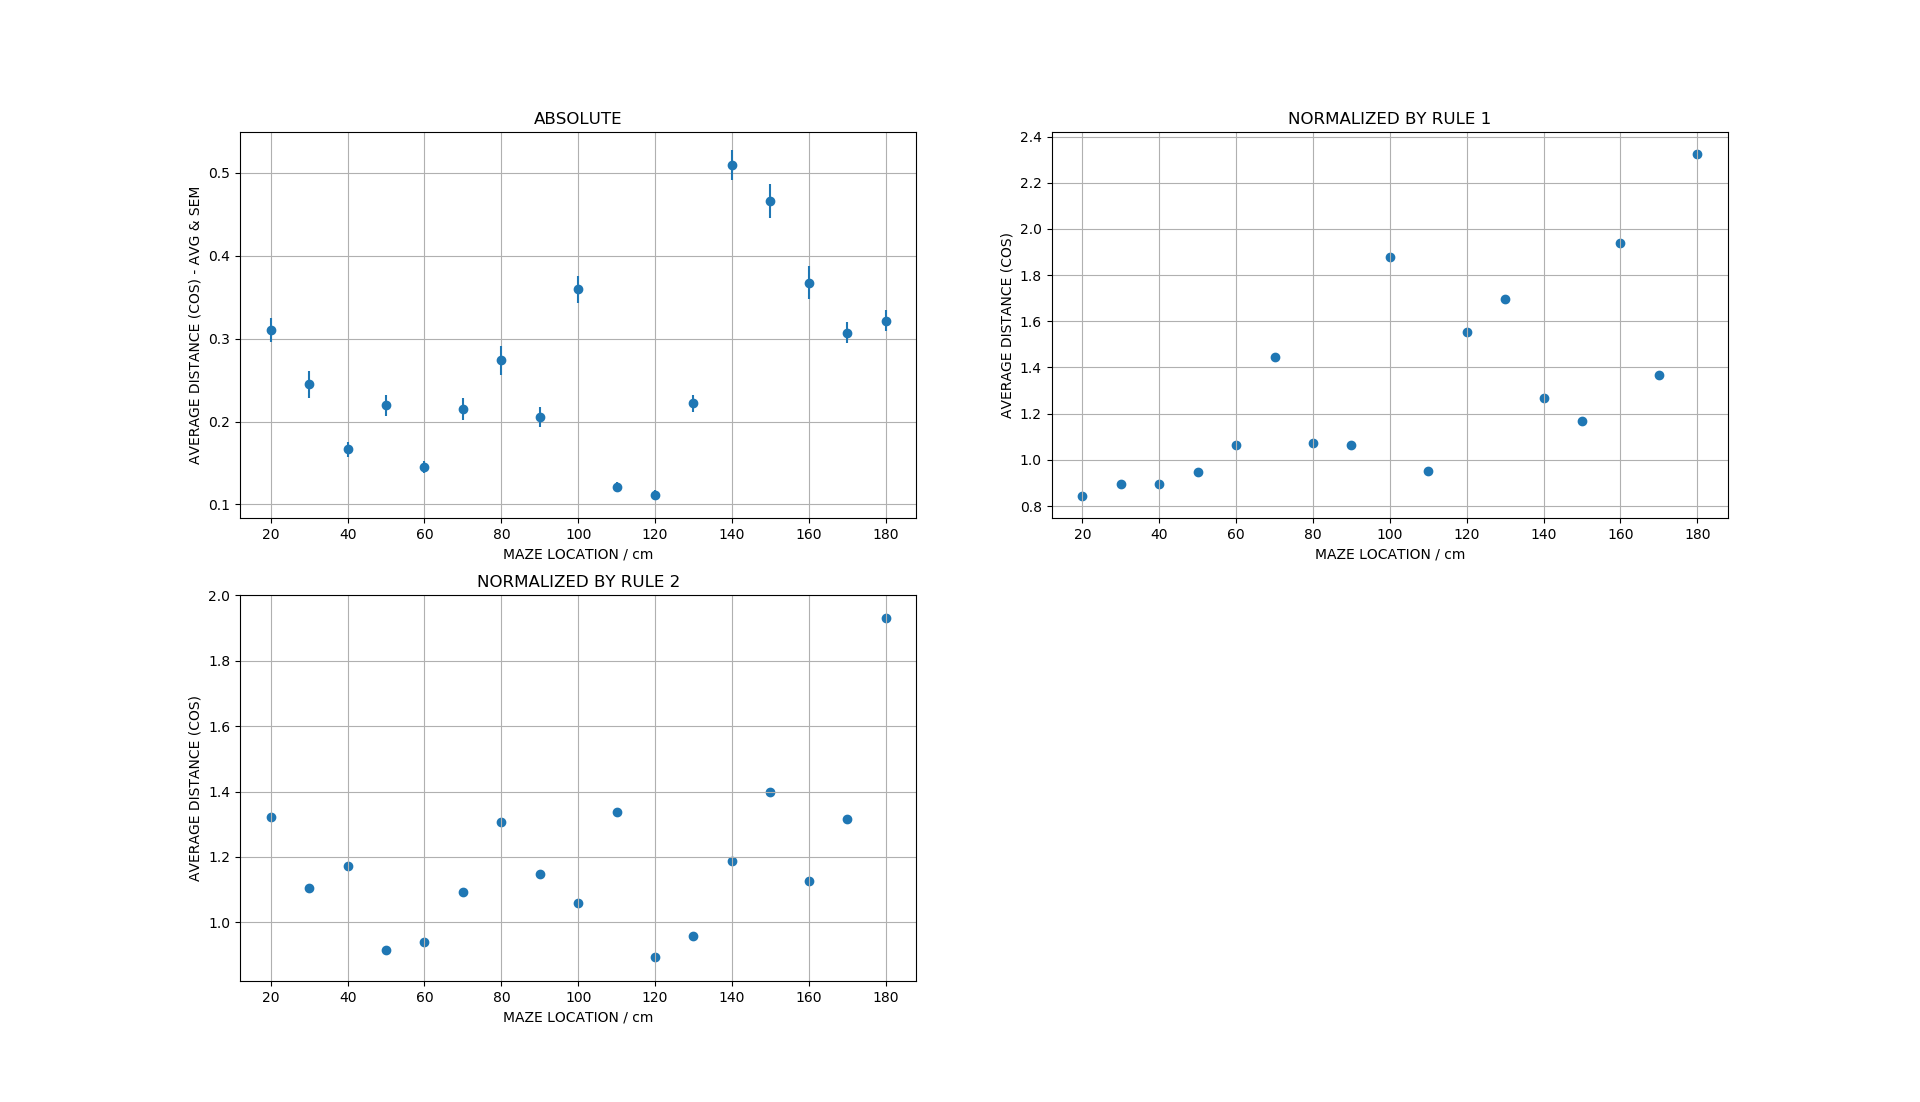
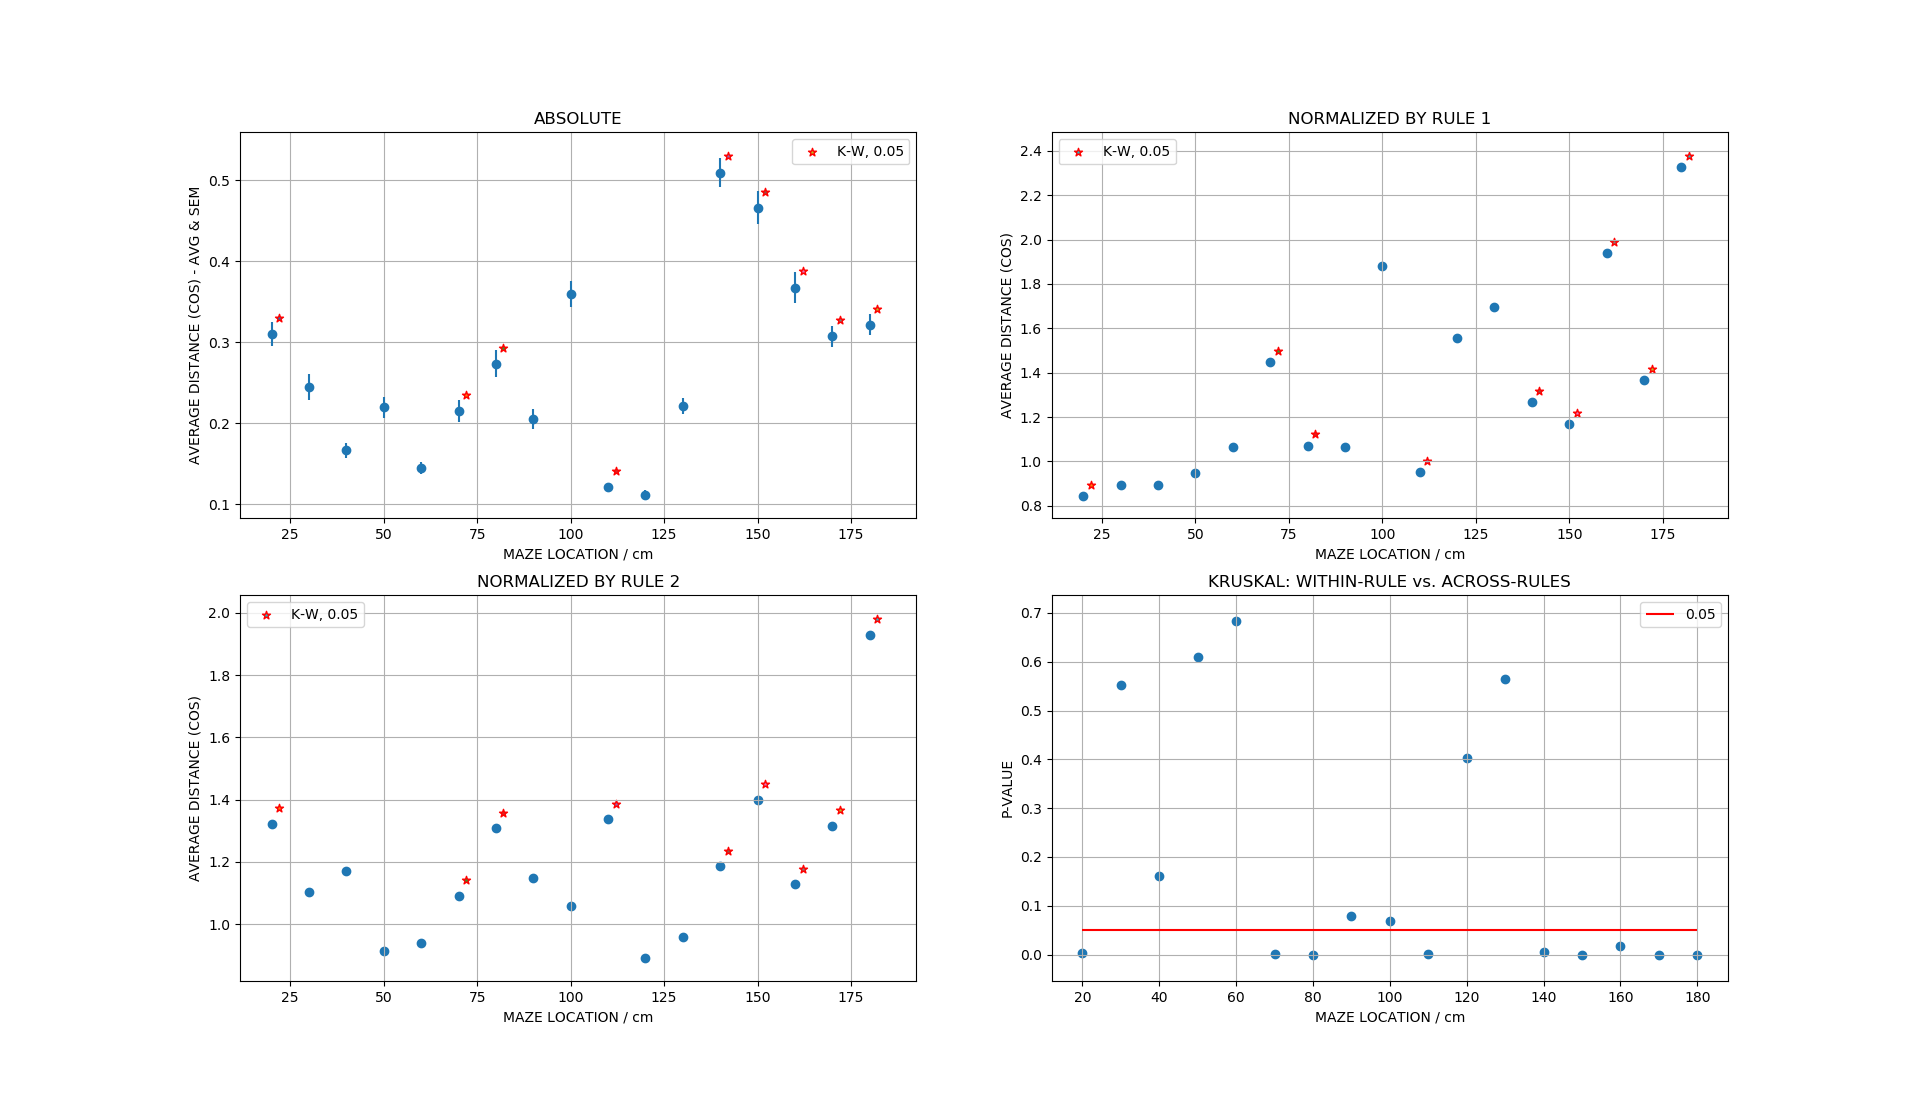
modified first quant. figure

diff --git a/quantification_methods.py b/quantification_methods.py
@@ -34,6 +34,7 @@ from plotting_functions import plot_compare
 import seaborn as sns
 import matplotlib as mpl
 import os
+from collections import OrderedDict
 
 # set saving directory to current directory
 mpl.rcParams["savefig.directory"] = os.chdir(os.path.dirname(__file__))
@@ -142,7 +143,7 @@ class TransitionAnalysis(Analysis):
         pickle.dump(dic_spat_int_2, outfile)
         outfile.close()
 
-    def cross_diff_spat(self, spat_bin_dic_1, spat_bin_dic_2):
+    def cross_cos_diff_spat(self, spat_bin_dic_1, spat_bin_dic_2):
 
         if len(spat_bin_dic_1.keys()) != len(spat_bin_dic_2.keys()):
             print("Number of spatial bins in both dictionaries don't match")
@@ -156,8 +157,9 @@ class TransitionAnalysis(Analysis):
         n_2 = next(iter(spat_bin_dic_2.values())).shape[1]
         within_diff_1 = np.zeros((nr_intervals, int(n_1*(n_1 - 1)/2)))
         within_diff_2 = np.zeros((nr_intervals, int(n_2*(n_2 - 1)/2)))
+        stats_array = np.zeros((nr_intervals, 2))
 
-        # go through all spatial bins and calculate difference
+        # go through all spatial bins and calculate difference --> rows: spatial bins, columns: cos distances
         for i, key in enumerate(spat_bin_dic_1):
             cross_diff[i, :] = calc_diff(spat_bin_dic_1[key], spat_bin_dic_2[key], "cos").flatten()
             temp1 = calc_diff(spat_bin_dic_1[key], spat_bin_dic_1[key], "cos")
@@ -165,6 +167,11 @@ class TransitionAnalysis(Analysis):
             temp2 = calc_diff(spat_bin_dic_2[key], spat_bin_dic_2[key], "cos")
             within_diff_2[i,:] = temp2[np.triu_indices(temp2.shape[0],1)]
 
+        # for each spatial bin compare union of within_diff_1/within_diff_2 and cross_diff
+        for i, (w_d_1, w_d_2, c_d) in enumerate(zip(within_diff_1, within_diff_2,cross_diff)):
+            w_d = np.hstack((w_d_1, w_d_2))
+            stats_array[i,0],stats_array[i,1] = stats.kruskal(w_d, c_d)
+            # compare
 
         x_axis = np.arange(0,200,self.param_dic["spatial_bin_size"])
         x_axis = x_axis[self.param_dic["spat_bins_excluded"][0]:self.param_dic["spat_bins_excluded"][-1]]
@@ -185,6 +192,15 @@ class TransitionAnalysis(Analysis):
         plt.ylabel("AVERAGE DISTANCE (COS) - AVG & SEM")
         plt.title("ABSOLUTE")
 
+        # add significance marker
+        for i,p_v in enumerate(stats_array[:,1]):
+            print(p_v)
+            if p_v < 0.05:
+                plt.scatter(x_axis[i]+2,avg[i]+0.02, marker="*", edgecolors="Red",label="K-W, 0.05")
+        handles, labels = plt.gca().get_legend_handles_labels()
+        by_label = OrderedDict(zip(labels, handles))
+        plt.legend(by_label.values(), by_label.keys())
+
         plt.subplot(2, 2, 2)
         plt.scatter(x_axis, avg/avg_1)
         plt.xlabel("MAZE LOCATION / cm")
@@ -192,11 +208,39 @@ class TransitionAnalysis(Analysis):
         plt.title("NORMALIZED BY RULE 1")
         plt.grid()
 
+        # add significance marker
+        for i,p_v in enumerate(stats_array[:,1]):
+            print(p_v)
+            if p_v < 0.05:
+                plt.scatter(x_axis[i]+2,avg[i]/avg_1[i]+0.05, marker="*", edgecolors="Red",label="K-W, 0.05")
+        handles, labels = plt.gca().get_legend_handles_labels()
+        by_label = OrderedDict(zip(labels, handles))
+        plt.legend(by_label.values(), by_label.keys())
+
         plt.subplot(2, 2, 3)
         plt.scatter(x_axis, avg/avg_2)
         plt.xlabel("MAZE LOCATION / cm")
         plt.ylabel("AVERAGE DISTANCE (COS)")
         plt.title("NORMALIZED BY RULE 2")
+        plt.grid()
+
+        # add significance marker
+        for i,p_v in enumerate(stats_array[:,1]):
+            print(p_v)
+            if p_v < 0.05:
+                plt.scatter(x_axis[i]+2,avg[i]/avg_2[i]+0.05, marker="*", edgecolors="Red",label="K-W, 0.05")
+        handles, labels = plt.gca().get_legend_handles_labels()
+        by_label = OrderedDict(zip(labels, handles))
+        plt.legend(by_label.values(), by_label.keys())
+
+
+        plt.subplot(2, 2, 4)
+        plt.scatter(x_axis, stats_array[:,1])
+        plt.hlines(0.05,min(x_axis),max(x_axis),colors="Red",label="0.05")
+        plt.xlabel("MAZE LOCATION / cm")
+        plt.ylabel("P-VALUE")
+        plt.title("KRUSKAL: WITHIN-RULE vs. ACROSS-RULES")
+        plt.legend()
         plt.grid()
 
         plt.show()

diff --git a/results/quantitative_analysis.md b/results/quantitative_analysis.md
@@ -1,9 +1,15 @@
 # POPULATION VECTOR DIFFERENCE DURING RULE SWITCH: HPC
 
-Can we characterize the transition of the manifold during the rule switch?
+Can we characterize the transition of the population states during rule switch?
 
 **Analysis methods**:
 * within rule cos-distance vs. accross rules cos-distance
 * filtered data where speed < 5 cm/s and all zero population vectors
 
+## Results using spatial bins (10cm)
+
+* RULE 1: light, RULE 2: west
+
 ![alt text](../plots/quant_transition_cos.png)
+
+* can we tell something from different results of the normalization by rule 1 and rule b?

diff --git a/README.md b/README.md
@@ -29,7 +29,7 @@ importing/filtering/saving of data. Uses helper functions from filter_functions.
 ## filter_functions.py
 helper functions for selecting data
 
-# RESULTS
+# Results
 
 ## manifold_analysis.md
 
